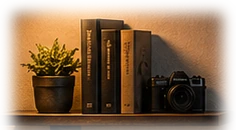
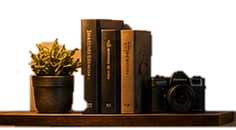
Room: shelf and plant cut out cleanly, 31 memory polaroids; Planless photos
Room:
- The shelf card was a soft-edged patch of the painting, so its lamp-lit
  wall showed as a bright box against the 3D wall. It's now a clean
  GrabCut cut-out of just the plant, books, camera and board, so the
  room's own wall and lamp glow show around them.
- The plant beside the portrait is drawn from the painting the same way.
  Both cut-outs share one CARDS list.
- 31 memory polaroids (18 new) in six loose rows: above and beside the
  portrait and left of the posters in the lamp's glow, laid out from
  MEMORY_ROWS.

Case studies: the judges' feedback on Jolty is woven into the reflection
rather than listed, and Planless's reflection ends with two photos from
the UXathon (new `photos` block).

diff --git a/src/lib/roomScene.js b/src/lib/roomScene.js
@@ -91,19 +91,25 @@ const POSTERS = {
   lightRef: 125
 };
 
-// Polaroids of the owner's memories, pinned in two loose rows on the wall above
-// the portrait: room.png position of the first one, each one's width (cards are
-// 200x245), the step between them, and a small tilt each so they look pinned by hand.
+// Polaroids of the owner's memories, pinned in loose rows on the wall: above the
+// portrait, beside it, and left of the posters in the lamp's glow. Each row is
+// [x, y, count] in room.png pixels; polaroids are `w` wide (cards are 200x245),
+// `step` apart, and each gets a small tilt so they look pinned by hand.
+const MEMORY_ROWS = [[912, 222, 7], [937, 280, 8], [912, 338, 7], [1114, 396, 3], [487, 222, 3], [512, 280, 3]];
 const MEMORIES = {
-  files: Array.from({ length: 13 }, (_, i) => `/assets/memory-${String(i + 1).padStart(2, '0')}.webp`),
-  x: 912, y: 222, w: 40, step: 50, rowGap: 58,
-  tilt: [-3, 2, -1.5, 3, -2, 1, -3.5, 2.5, -1, 3, -2.5, 1.5, -2]
+  files: Array.from({ length: 31 }, (_, i) => `/assets/memory-${String(i + 1).padStart(2, '0')}.webp`),
+  w: 40,
+  spots: MEMORY_ROWS.flatMap(([x, y, n]) => Array.from({ length: n }, (_, i) => [x + i * 50, y + (i % 2) * 3])),
+  tilt: (n) => ((n * 37) % 7) - 3
 };
 
-// The shelf with the plant, books and camera is drawn from the painting, like the
-// bass: the soft 3D books read as blocky. A cut-out of room.png at this offset and
-// size, with soft edges, on a card standing just in front of the shelf.
-const SHELF_CARD = { src: '/assets/shelf-cut.webp', x: 398, y: 330, w: 236, h: 130, z: -0.16 };
+// Furniture drawn from the painting instead of the 3D model, like the bass: the
+// soft 3D books and plants read as blocky. Each is a cut-out of room.png (at this
+// offset and size, with the wall cut away) on a card just in front of the model's.
+const CARDS = [
+  { src: '/assets/shelf-cut.webp', x: 398, y: 330, w: 236, h: 130, z: -0.16 }, // shelf: plant, books, camera
+  { src: '/assets/plant-cut.webp', x: 1115, y: 485, w: 97, h: 99, z: -0.08 } // plant beside the portrait
+];
 
 // Camera movement. Dragging pans the view across the painting (it can reach the
 // painting's edges, and stretches a little past them) and turns the camera a
@@ -561,9 +567,9 @@ export function mountRoom(canvas, { lite = false, intro: glideIn = false, onRead
   const loadAll = (files) => Promise.all(files.map((f) => new THREE.TextureLoader().loadAsync(f).catch(() => null)));
   const loadPosters = loadAll(POSTERS.files);
   const loadMemories = loadAll(MEMORIES.files);
-  const loadShelf = new THREE.TextureLoader().loadAsync(SHELF_CARD.src).catch(() => null);
+  const loadCards = loadAll(CARDS.map((c) => c.src));
 
-  Promise.all([loadImage, loadModel, loadBass, loadPosters, loadMemories, loadShelf]).then(([img, gltf, bassTex, posterTexs, memoryTexs, shelfTex]) => {
+  Promise.all([loadImage, loadModel, loadBass, loadPosters, loadMemories, loadCards]).then(([img, gltf, bassTex, posterTexs, memoryTexs, cardTexs]) => {
     if (destroyed) return;
 
     const back = backWallTexture(img, lite);
@@ -612,11 +618,9 @@ export function mountRoom(canvas, { lite = false, intro: glideIn = false, onRead
       const { x, y, w, gap } = POSTERS, h = w * 1.5;
       hang(tex, x + (n % 3) * (w + gap), y + Math.floor(n / 3) * (h + gap), w, h);
     });
-    // Two rows of polaroids, the second shifted half a step so they don't line up.
     memoryTexs.forEach((tex, n) => {
-      const { x, y, w, step, rowGap, tilt } = MEMORIES;
-      const row = n < 7 ? 0 : 1, col = row ? n - 7 : n;
-      hang(tex, x + col * step + row * (step / 2), y + row * rowGap + (n % 2) * 3, w, w * (245 / 200), tilt[n], 3);
+      const spot = MEMORIES.spots[n];
+      if (spot) hang(tex, spot[0], spot[1], MEMORIES.w, MEMORIES.w * (245 / 200), MEMORIES.tilt(n), 3);
     });
     wall('left', [[LEFT_X, CEIL_Y, FRONT_Z], [LEFT_X, CEIL_Y, BACK_Z], [LEFT_X, FLOOR_Y, BACK_Z], [LEFT_X, FLOOR_Y, FRONT_Z]]);
     wall('right', [[RIGHT_X, CEIL_Y, BACK_Z], [RIGHT_X, CEIL_Y, FRONT_Z], [RIGHT_X, FLOOR_Y, FRONT_Z], [RIGHT_X, FLOOR_Y, BACK_Z]]);
@@ -716,21 +720,22 @@ export function mountRoom(canvas, { lite = false, intro: glideIn = false, onRead
       bass = card;
       bassHome.set(0, 0, 0);
     }
-    if (shelfTex) {
-      // Same idea for the shelf, which stays put; it just covers the 3D books.
-      const { x, y, w, h, z } = SHELF_CARD;
+    // Same idea for the shelf and the plant, which stay put; they just cover the 3D ones.
+    CARDS.forEach(({ x, y, w, h, z }, n) => {
+      const tex = cardTexs[n];
+      if (!tex) return;
       const geo = quad([onPlane(x, y, z), onPlane(x + w, y, z), onPlane(x + w, y + h, z), onPlane(x, y + h, z)], (p) => {
         const [px, py] = toPx(p);
         return [(px - x) / w, 1 - (py - y) / h];
       }, 4);
-      shelfTex.colorSpace = THREE.SRGBColorSpace;
-      shelfTex.anisotropy = aniso;
-      const mat = new THREE.MeshBasicMaterial({ map: shelfTex, transparent: true, depthWrite: false, toneMapped: false });
-      disposables.push(geo, mat, shelfTex);
+      tex.colorSpace = THREE.SRGBColorSpace;
+      tex.anisotropy = aniso;
+      const mat = new THREE.MeshBasicMaterial({ map: tex, transparent: true, depthWrite: false, toneMapped: false });
+      disposables.push(geo, mat, tex);
       const card = new THREE.Mesh(geo, mat);
       card.renderOrder = 1;
       scene.add(card);
-    }
+    });
 
     scene.add(new THREE.HemisphereLight(LIGHTS.sky, LIGHTS.ground, LIGHTS.ambient));
     for (const [color, intensity, decay, x, y, z] of LIGHTS.points) {

diff --git a/src/data/caseStudies.js b/src/data/caseStudies.js
@@ -8,6 +8,7 @@
 //   { cards: [[title, text]] }    a grid of small cards
 //   { table: { head, rows, highlight } }   a table; `highlight` is a row index
 //   { embed: { src, href, label } }        slides shown in place, with a link out
+//   { photos: [[src, alt]] }      a row of photos
 
 export const caseStudies = {
   launchpath: {
@@ -173,16 +174,9 @@ export const caseStudies = {
         id: 'reflections',
         label: 'Reflections',
         blocks: [
-          { p: 'This was my first product hackathon, and the first time I learned the product lifecycle properly. I was thinking very technically and had never really considered the business side, and the feedback made that impossible to ignore. It’s pushed me to build up that side of myself, because an ideal PM can do both.' },
-          { p: 'The judges’ main feedback:' },
-          {
-            list: [
-              'How to expand the features beyond the basics.',
-              'How to monetize better.',
-              'Urgency, and a reason to come back. Duolingo came up: people return every day even when they’re not actually learning the language.',
-              'Getting people to take action on their ideas.'
-            ]
-          }
+          { p: 'This was my first product hackathon, and the first time I learned the product lifecycle properly. I was thinking very technically and had never really considered the business side, and the judges’ feedback made that impossible to ignore.' },
+          { p: 'They pushed us on things we hadn’t thought about: how Jolty grows beyond its basic features, how it makes money, and what gives people the urgency and motivation to come back. They pointed to Duolingo, which people open every day even when they aren’t really learning the language. And a daily idea only matters if people take action on it, so getting them from a sentence to doing something was the next problem to solve.' },
+          { p: 'All of it made me want to build up the business side of myself, because an ideal PM can do both.' }
         ]
       }
     ]
@@ -248,7 +242,8 @@ export const caseStudies = {
         blocks: [
           { p: 'Honestly, my most creative technical product to date. Coming up with the idea was a rollercoaster with my team. So many teams were building apps and websites, and this one made us think outside the box. It was also my longest ideation process ever, but in the best stories, the best ideas come in a time crunch, at random.' },
           { p: 'With about five hours left before submission, a mentor hit us with hard-hitting questions and scenarios that destroyed our confidence. It taught me the importance of finding a user who wouldn’t use the product, to see its real limits, while still trusting that what we built is great and works. So we kept going: we built a pitch that named the limitations upfront and stopped trying to make the product too broad.' },
-          { quote: 'Funnily enough, that same mentor judged our pitch. This time we were ready, and we held our ground.' }
+          { quote: 'Funnily enough, that same mentor judged our pitch. This time we were ready, and we held our ground.' },
+          { photos: [['/assets/case-planless-team.webp', 'The Planless team at UXathon 2026, holding I love UX signs'], ['/assets/case-planless-award.webp', 'The Planless team holding their 2nd place winner certificates']] }
         ]
       }
     ]

diff --git a/src/components/CaseStudy.jsx b/src/components/CaseStudy.jsx
@@ -239,6 +239,15 @@ function Block({ b }) {
     );
   }
   if (b.embed) return <Slides {...b.embed} />;
+  if (b.photos) {
+    return (
+      <div style={{ display: 'grid', gridTemplateColumns: 'repeat(auto-fit,minmax(min(100%,300px),1fr))', gap: 'clamp(10px,1.4vw,18px)' }}>
+        {b.photos.map(([src, alt]) => (
+          <img key={src} src={src} alt={alt} loading="lazy" decoding="async" style={{ display: 'block', width: '100%', aspectRatio: '3/2', objectFit: 'cover', borderRadius: 12, border: `1px solid ${LINE}` }} />
+        ))}
+      </div>
+    );
+  }
   return null;
 }
 
